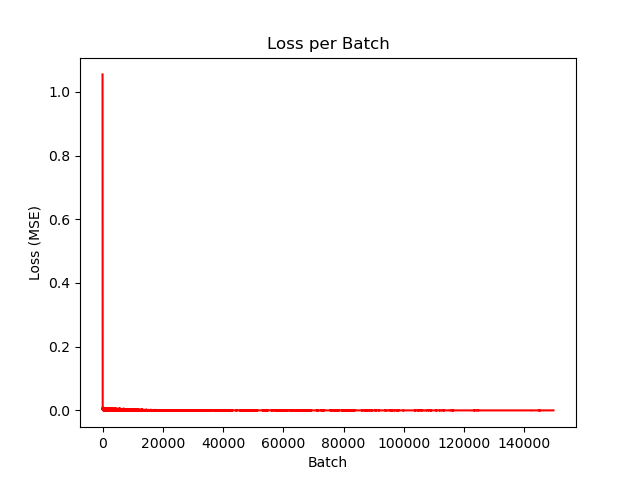
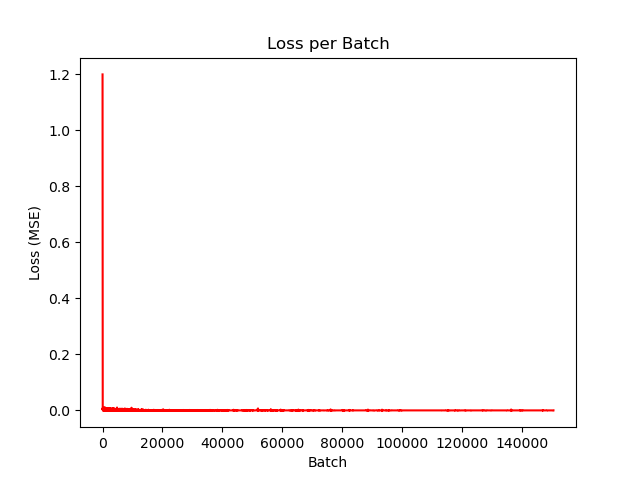
different models

diff --git a/src/main.py b/src/main.py
@@ -2,7 +2,8 @@ from data.processing.aggregate_by_sector import aggregate_atmosphere, aggregate_
 from data.processing.process_outputs import process_repository
 from data.processing.combine_datasets import combine_datasets
 from data.classes.EmulatorData import EmulatorData
-from models.SimpleEmulator import SimpleEmulator
+from models import FC3_N128, FC6_N256
+from training.EmulatorTrainingDataset import EmulatorTrainingDataset
 from sklearn.ensemble import RandomForestRegressor
 from sklearn.metrics import mean_absolute_error, mean_squared_error, r2_score
 from utils import get_configs
@@ -51,6 +52,7 @@ if processing['combine_datasets']:
 
 
 emulator_data = EmulatorData(directory=export_dir)
+split_type = 'batch'
 emulator_data, train_features, test_features, train_labels, test_labels = emulator_data.process(
     target_column='ivaf',
     drop_missing=True,
@@ -59,21 +61,6 @@ emulator_data, train_features, test_features, train_labels, test_labels = emulat
     scale=True,
     split_type='batch'
 )
-
-
-
-class EmulatorTrainingDataset(Dataset):
-    
-    def __init__(self, X_data, y_data):
-        self.X_data = X_data
-        self.y_data = y_data
-        
-    def __getitem__(self, index):
-        return self.X_data[index], self.y_data[index]
-        
-    def __len__ (self):
-        return len(self.X_data)
-    
     
 X_train = np.array(train_features, dtype=np.float64)
 y_train = np.array(train_labels, dtype=np.float64)
@@ -81,9 +68,10 @@ X_test = np.array(test_features, dtype=np.float64)
 y_test = np.array(test_labels, dtype=np.float64)
 
 train_dataset = EmulatorTrainingDataset(torch.from_numpy(X_train).float(), torch.from_numpy(y_train).float().squeeze())
-train_loader = DataLoader(dataset=train_dataset, batch_size=100)
+train_loader = DataLoader(dataset=train_dataset, batch_size=100, shuffle=True)
 
-model = Emulator()
+# model = FC3_N128.FC3_N128(input_layer_size=X_train.shape[1])
+model = FC6_N256.FC6_N256(input_layer_size=X_train.shape[1])
 criterion = nn.MSELoss()
 optimizer = optim.Adam(model.parameters(),)
 epochs = 100
@@ -148,5 +136,24 @@ plt.ylabel('Loss (MSE)')
 # plt.ylim([0,0.1])
 plt.savefig('batch_loss.png')
 plt.show()
+
+
+if split_type == 'batch':
+    single_scenario = emulator_data.test_scenarios[10]
+    test_model = single_scenario[0]
+    test_exp = single_scenario[2]
+    test_sector = single_scenario[1]
+    single_test_features = torch.tensor(np.array(test_features[(test_features[test_model] == 1) & (test_features[test_exp] == 1) & (test_features.sectors == test_sector)], dtype=np.float64), dtype=torch.float)
+    single_test_labels = np.array(test_labels[(test_features[test_model] == 1) & (test_features[test_exp] == 1) & (test_features.sectors == test_sector)], dtype=np.float64)
+    preds = model(single_test_features).detach().numpy()
+
+    plt.figure()
+    plt.plot(single_test_labels, 'r-', label='True')
+    plt.plot(preds, 'b-', label='Predicted')
+    plt.xlabel('Time (years since 2015)')
+    plt.ylabel('IVAF')
+    plt.title(f'Model={test_model}, Exp={test_exp}')
+    plt.legend()
+    plt.savefig('single_test.png')
 
 stop = ''

diff --git a/src/models/FC6_N256.py b/src/models/FC6_N256.py
@@ -1,0 +1,23 @@
+import torch
+from torch import nn
+
+class FC6_N256(torch.nn.Module):
+    def __init__(self, input_layer_size):
+        super(FC6_N256, self).__init__()
+        self.input_layer_size = input_layer_size
+        self.layer = torch.nn.Linear(self.input_layer_size, 256)
+        self.layer2 = torch.nn.Linear(256, 128)
+        self.layer3 = torch.nn.Linear(128, 64)
+        self.layer4 = torch.nn.Linear(64, 32)
+        self.layer5 = torch.nn.Linear(32, 16)
+        self.layer6 = torch.nn.Linear(16, 1)
+        self.relu = nn.ReLU()
+
+    def forward(self, x):
+        x = self.relu(self.layer(x))
+        x = self.relu(self.layer2(x))
+        x = self.relu(self.layer3(x))
+        x = self.relu(self.layer4(x))
+        x = self.relu(self.layer5(x))
+        x = self.layer6(x)
+        return x

diff --git a/src/models/FC3_N128.py b/src/models/FC3_N128.py
@@ -1,13 +1,13 @@
 import torch
 from torch import nn
 
-class Emulator(torch.nn.Module):
+class FC3_N128(torch.nn.Module):
     def __init__(self, input_layer_size):
-        super(Emulator, self).__init__()
+        super(FC3_N128, self).__init__()
         self.input_layer_size = input_layer_size
         self.layer = torch.nn.Linear(self.input_layer_size, 128)
-        self.layer2 = torch.nn.Linear(128, 32)
-        self.layer3 = torch.nn.Linear(32, 1)
+        self.layer2 = torch.nn.Linear(128, 64)
+        self.layer3 = torch.nn.Linear(64, 1)
         self.relu = nn.ReLU()
 
     def forward(self, x):

diff --git a/src/training/EmulatorTrainingDataset.py b/src/training/EmulatorTrainingDataset.py
@@ -1,0 +1,13 @@
+from torch.utils.data import Dataset
+
+class EmulatorTrainingDataset(Dataset):
+    
+    def __init__(self, X_data, y_data):
+        self.X_data = X_data
+        self.y_data = y_data
+        
+    def __getitem__(self, index):
+        return self.X_data[index], self.y_data[index]
+        
+    def __len__ (self):
+        return len(self.X_data)

diff --git a/src/data/classes/EmulatorData.py b/src/data/classes/EmulatorData.py
@@ -114,6 +114,8 @@ class EmulatorData:
 
             self.train_features = self.X.drop(testing_indices)
             self.train_labels = pd.Series(self.y.squeeze()).drop(testing_indices)
+            
+            self.test_scenarios = test_scenarios
 
         return self
 
